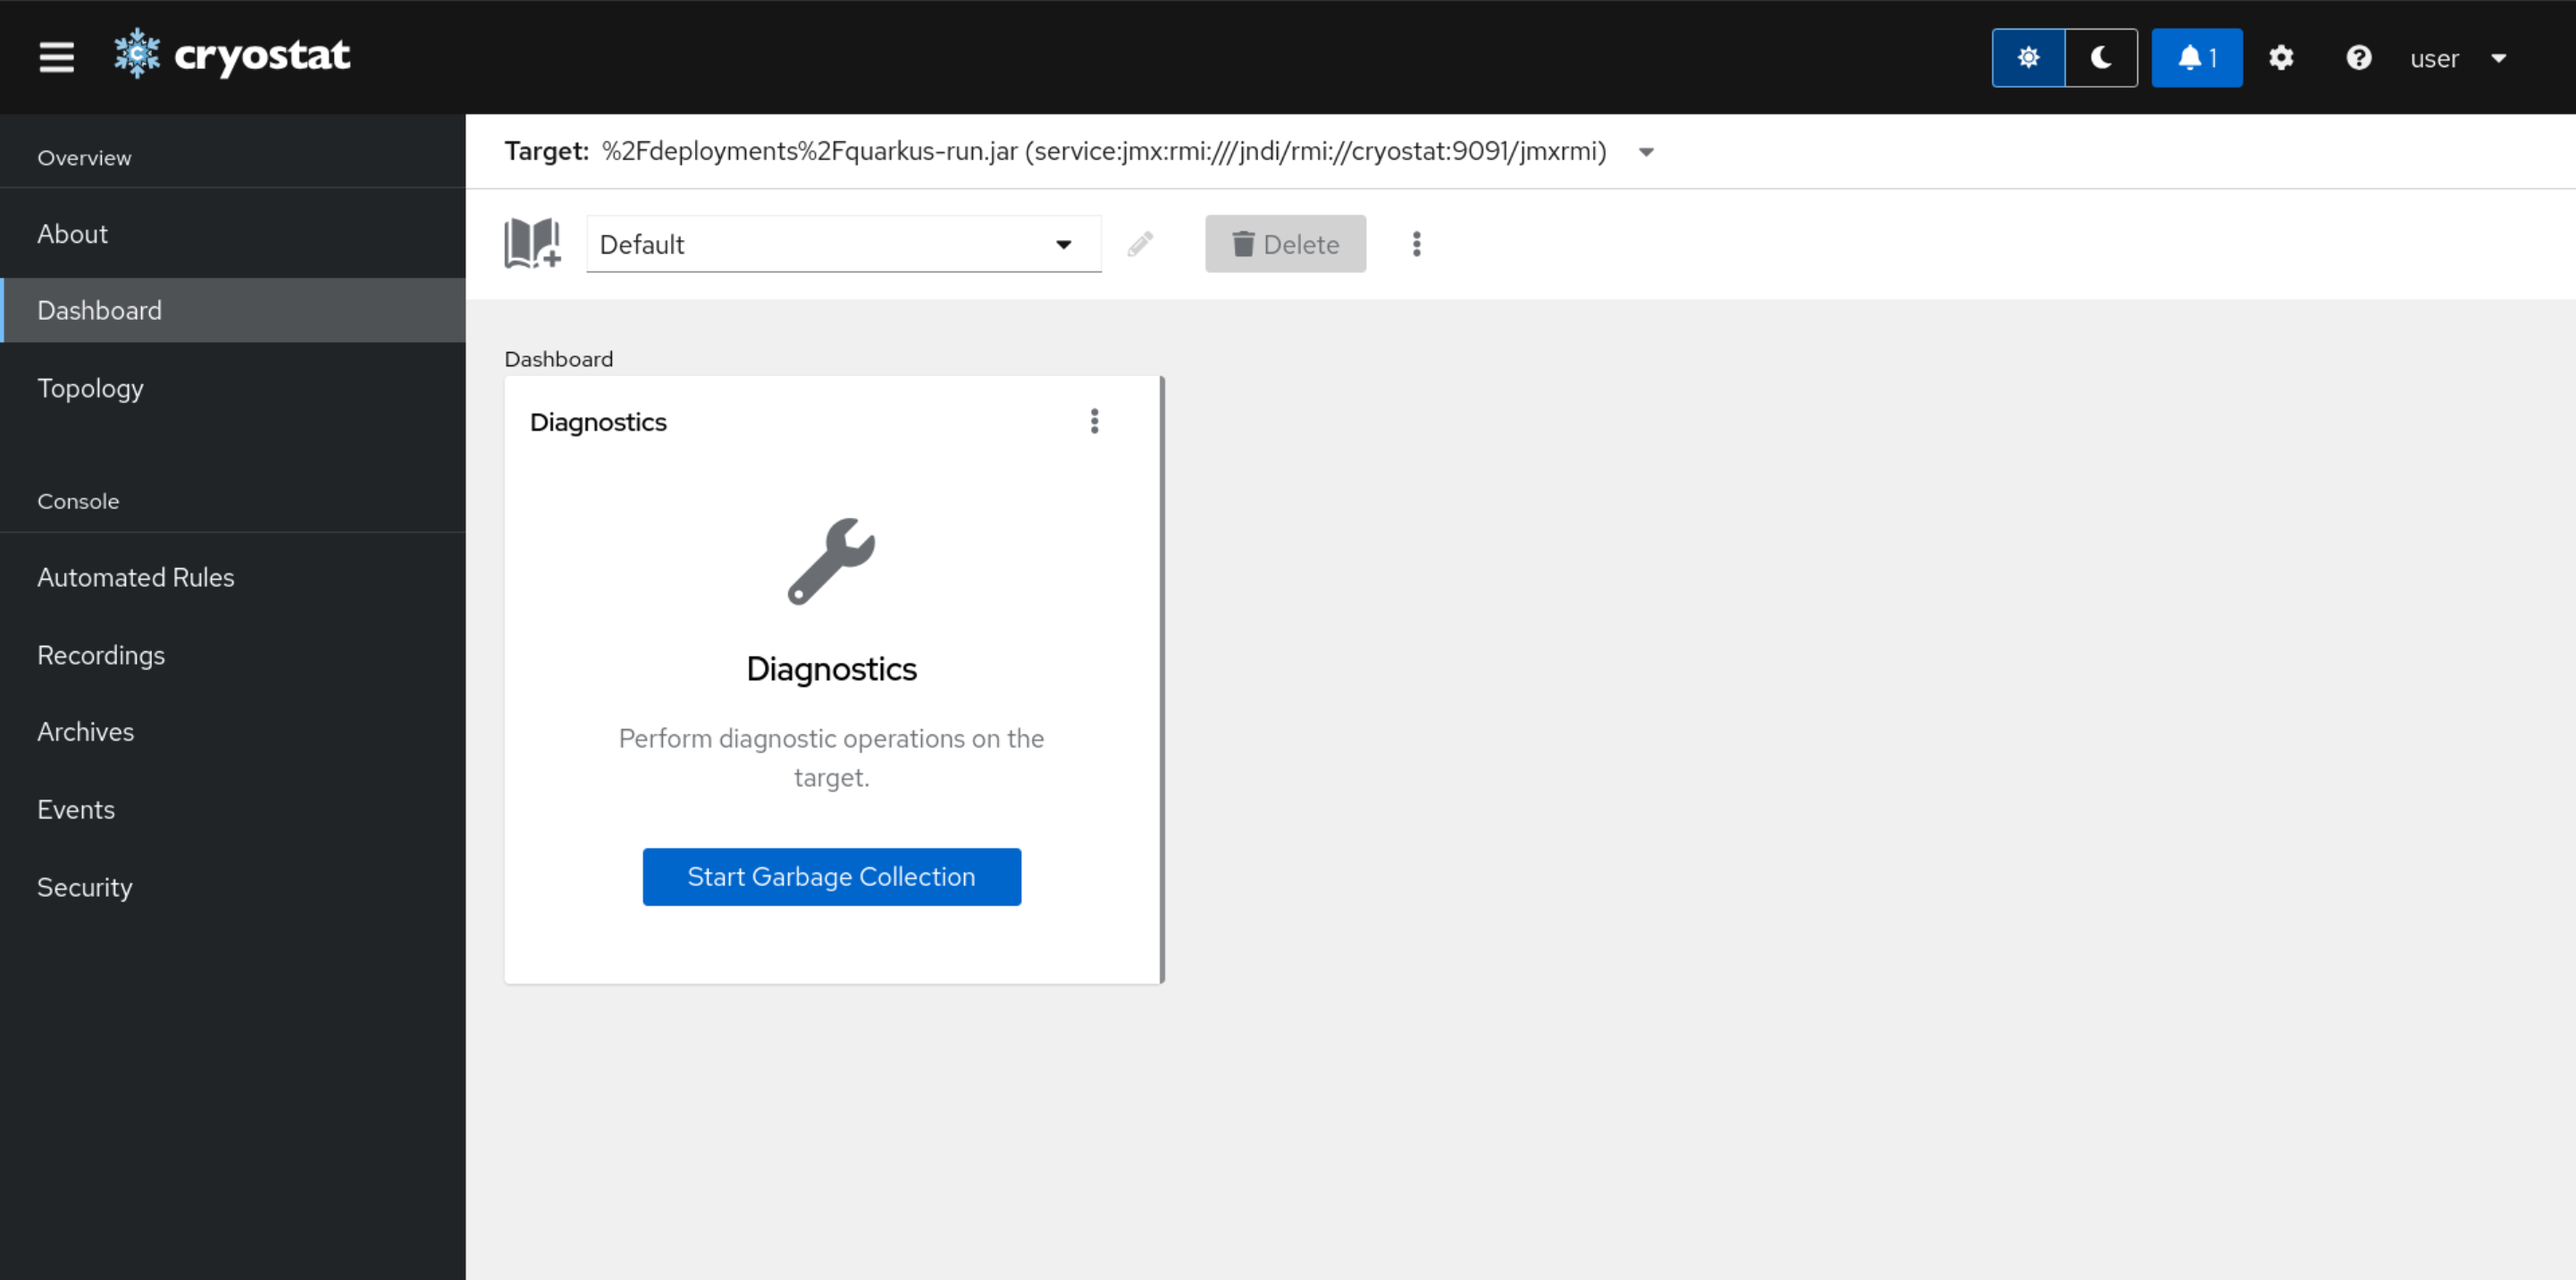
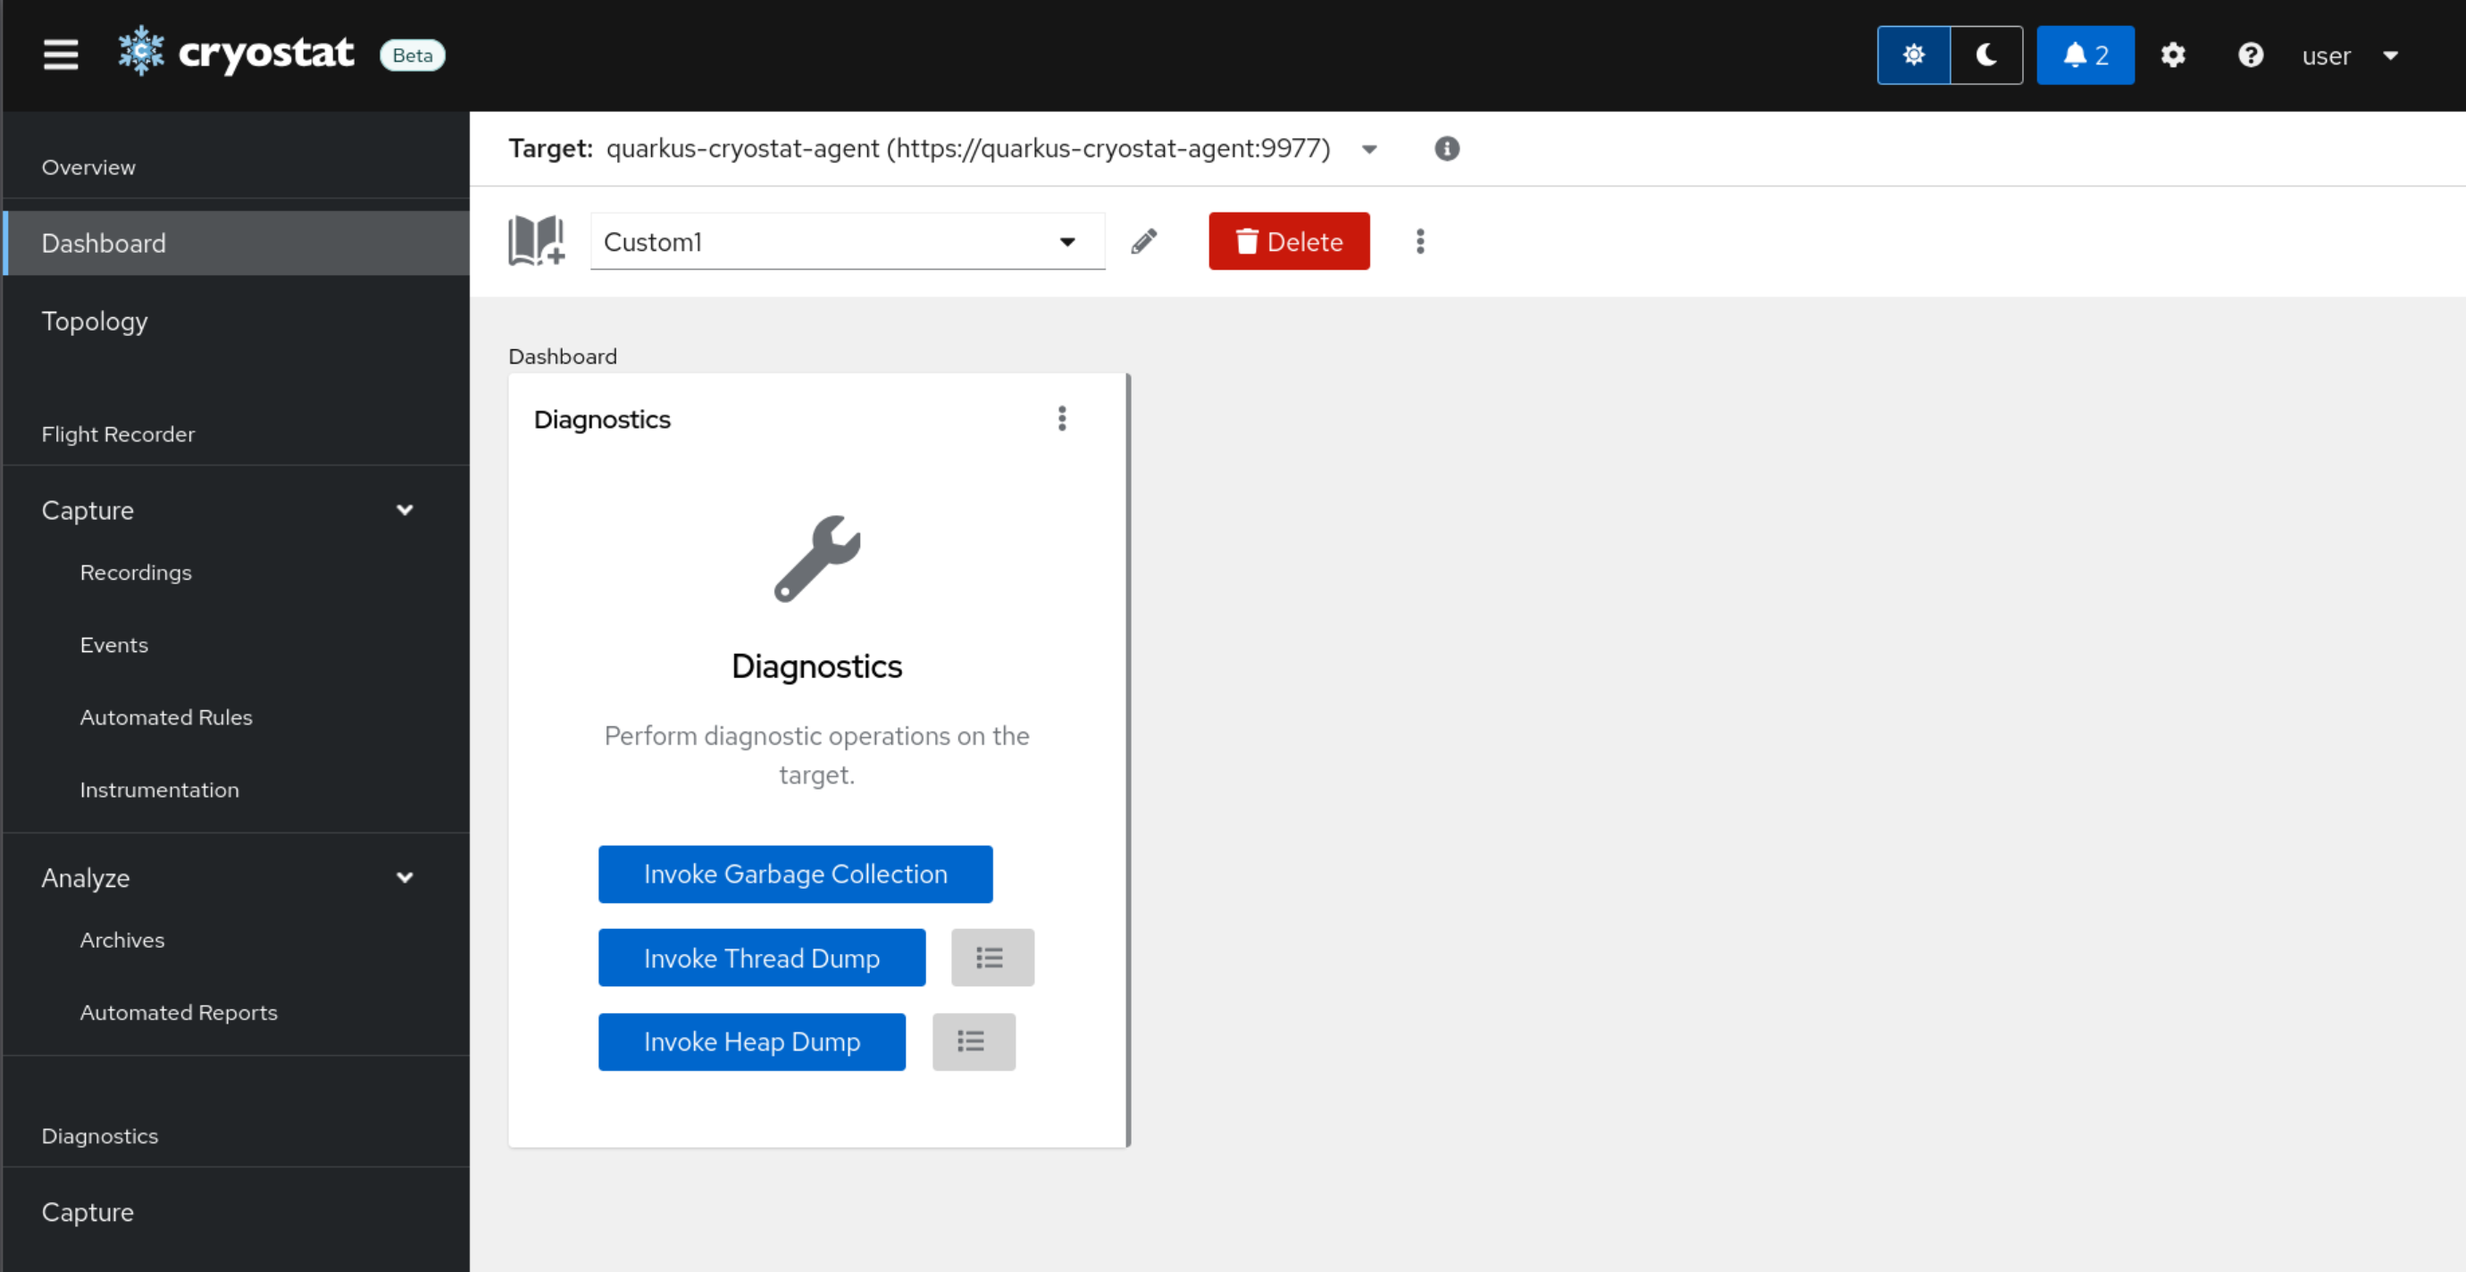
feat(diagnostics): Add diagnostics guides, update gc guide (#222)

diff --git a/guides/_subsections/capture-a-heap-dump.md b/guides/_subsections/capture-a-heap-dump.md
@@ -1,0 +1,44 @@
+## [Capture a Heap Dump](#capture-a-heap-dump)
+<ol>
+    <li>
+      {% capture capture-a-heap-dump-text %}
+      <p>
+        The <i>Diagnostics</i> <code>card</code> and Diagnostics/Capture page 
+        allows you to perform diagnostic operations on a <code>target</code> <b>JVM</b> through remote access to supported <b>Java MXBeans</b>.
+      </p>
+      <p>
+        Currently <b>Cryostat</b> supports invoking garbage collection, capturing Thread Dumps, and capturing Heap Dumps on <code>target</code> <b>JVMs</b>. Capturing Heap Dumps additionally requires a <b>Cryostat Agent</b> connection.
+      </p>
+      <p>
+        <b>Heap Dumps</b> are a profiling tool that is built into the JVM. They allow you to capture a snapshot of all the memory currently in use within a JVM Process at a specific moment in time. They provide detailed information about all Java objects and classes residing in heap memory at the time that aid in diagnosing performance issues, memory leaks, and other problems with memory usage.
+      </p>
+      <p>
+        You can click the <i>Invoke Heap Dump</i> button in the middle of the <code>card</code> at any time to trigger a <code>Heap Dump</code> that will then be uploaded to the archives. If the button is disabled check that the target is a <b>Cryostat Agent</b> target
+    </p>
+      {% endcapture %}
+      {% include howto_step.html
+        summary="Navigate to the <i>Diagnostics Page</i>"
+        image-name="4.1.0/capture-diagnostics-page.png"
+        caption="Click on <i>Diagnostics/Capture</i> on the sidebar."
+        text=capture-a-heap-dump-text
+      %}
+    </li>
+    <li>
+    <summary>Click the <i>Invoke Heap Dump</i> button</summary>
+  </li>
+  <li>
+    {% include howto_step.html
+      summary="Navigate to the <i>Heap Dumps</i> tab"
+      image-name="4.1.0/archive-a-heap-dump.png"
+      caption="
+        Once the <code>Heap Dump</code> has been archived, a new entry will appear in the
+        <code>target</code> <b>JVM's</b> <i>Heap Dumps</i> table. All <code>Heap Dumps</code> that were
+        saved from the current <code>target</code> will be listed here in their own table.
+        Switching to a different <code>target</code> from the dropdown will list only the
+        <code>Heap Dumps</code> archived from that source <code>target</code>. Alternatively, clearing the target will provide access to the All-Targets view. There is also an All-Archives view that allows access to all <code>Heap Dumps</code> currently available in storage. 
+      "
+    %}
+    The name of the <code>Heap Dump</code> reflects the address of the <code>target</code> application. Heap dumps also support labels similar to Archived Recordings. See     <a href="#add-and-edit-recording-metadata-labels">
+        Add and Edit Recording Metadata Labels</a>.
+  </li>
+</ol>

diff --git a/guides/_subsections/capture-a-thread-dump.md b/guides/_subsections/capture-a-thread-dump.md
@@ -1,0 +1,44 @@
+## [Capture a Thread Dump](#capture-a-thread-dump)
+<ol>
+    <li>
+      {% capture capture-a-thread-dump-text %}
+      <p>
+        The <i>Diagnostics</i> <code>card</code> and Diagnostics/Capture page 
+        allows you to perform diagnostic operations on a <code>target</code> <b>JVM</b> through remote access to supported <b>Java MXBeans</b>.
+      </p>
+      <p>
+        Currently <b>Cryostat</b> supports invoking garbage collection, capturing Thread Dumps, and capturing Heap Dumps on <code>target</code> <b>JVMs</b>.
+      </p>
+      <p>
+        <b>Thread Dumps</b> are a profiling tool that is built into the <b>JVM</b>. They allow you to capture a snapshot of all the threads currently running within a <b>JVM</b> Process at a specific moment in time. They provide detailed information about each thread that aid in diagnosing performance issues, identifying deadlocks and determining other problems with concurrency.
+      </p>
+      <p>
+        You can click the <i>Invoke Thread Dump</i> button in the middle of the <code>card</code> at any time to trigger a <code>Thread Dump</code> that will then be uploaded to the archives.
+    </p>
+      {% endcapture %}
+      {% include howto_step.html
+        summary="Navigate to the <i>Diagnostics</i> Page"
+        image-name="4.1.0/capture-diagnostics-page.png"
+        caption="Click on <i>Diagnostics/Capture</i> on the sidebar."
+        text=capture-a-thread-dump-text
+      %}
+    </li>
+    <li>
+    <summary>Click the <i>Invoke Thread Dump</i> button</summary>
+  </li>
+  <li>
+    {% include howto_step.html
+      summary="Navigate to the <i>Thread Dumps</i> tab"
+      image-name="4.1.0/archive-a-thread-dump.png"
+      caption="
+        Once the <code>Thread Dump</code> has been archived, a new entry will appear in the
+        <code>target</code> <b>JVM's</b> <i>Thread Dumps</i> table. All <code>Thread Dumps</code> that were
+        saved from the current <code>target</code> will be listed here in their own table.
+        Switching to a different <code>target</code> from the dropdown will list only the
+        <code>Thread Dumps</code> archived from that source <code>target</code>. Alternatively, clearing the target will provide access to the All-Targets view. There is also an All-Archives view that allows access to all <code>Thread Dumps</code> currently available in storage. 
+      "
+    %}
+    The name of the <code>Thread Dump</code> when downloaded reflects the address of the <code>target</code> application. Thread dumps also support labels similar to Archived Recordings. See     <a href="#add-and-edit-recording-metadata-labels">
+        Add and Edit Recording Metadata Labels</a>.
+  </li>
+</ol>

diff --git a/guides/index.md b/guides/index.md
@@ -63,5 +63,9 @@ common actions and workflows of interest and why they are useful.
 
 {% include_relative _subsections/configure-graphical-notifications.md %}
 
+{% include_relative _subsections/capture-a-thread-dump.md %}
+
+{% include_relative _subsections/capture-a-heap-dump.md %}
+
 [comment]: # ## [Analyze Recordings Online](#analyze-recordings-online)
 [comment]: # TODO
